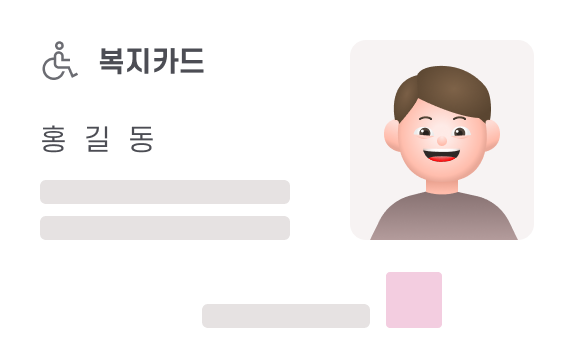
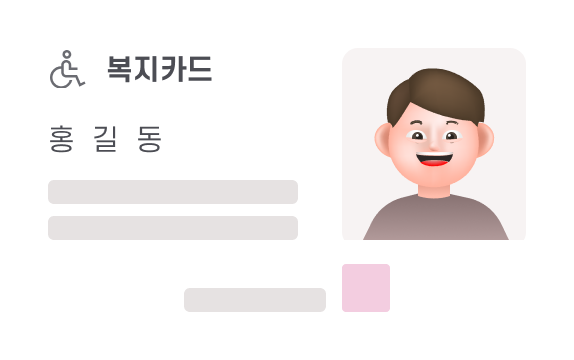
file_attach_box 관련 수정

diff --git a/src/css/common/common.scss b/src/css/common/common.scss
@@ -514,6 +514,18 @@ strong {
 		margin-top: var(--gap-5);
 	}
 
+	&.active {
+		.file_thumbnail {
+			&:before {
+				content: none;
+			}
+
+			&:after {
+				border: var(--border-width-static-regular) solid rgba(0, 0, 0, 0.10);
+			}
+		}
+	}
+
 	.file_thumbnail {
 		overflow: hidden;
 		position: relative;
@@ -521,19 +533,13 @@ strong {
 		align-items: center;
 		justify-content: center;
 		height: 180px;
-		padding: var(--padding-5);
+		// padding: var(--padding-5);
 		background-color: #fff;
 		font-size: 0;
 		line-height: 0;
 		border-radius: var(--radius-medium3);
 
-		// background-image: url("../images/frame/bg_image_frame_tl.svg"), url("../images/frame/bg_image_frame_tr.svg"), url("../images/frame/bg_image_frame_bl.svg"), url("../images/frame/bg_image_frame_br.svg");
-		// background-position: top 14px left 14px, top 14px right 14px, bottom 14px left 14px, bottom 14px right 14px;
-		// background-repeat: no-repeat;
-		// background-size: 16px auto;
-
-
-
+		
 		&:before {
 			content:'';
 			position: absolute;
@@ -542,7 +548,21 @@ strong {
 			z-index: 1;
 			width: 100%;
 			height: 100%;
-			border: var(--border-width-static-regular) solid rgba(0, 0, 0, 0.10);
+			background-image: url("../images/frame/bg_image_frame_tl.svg"), url("../images/frame/bg_image_frame_tr.svg"), url("../images/frame/bg_image_frame_bl.svg"), url("../images/frame/bg_image_frame_br.svg");
+			background-position: top 14px left 14px, top 14px right 14px, bottom 14px left 14px, bottom 14px right 14px;
+			background-repeat: no-repeat;
+			background-size: 16px auto;
+		}
+
+		&:after {
+			content:'';
+			position: absolute;
+			top:0;
+			left: 0;
+			z-index: 1;
+			width: 100%;
+			height: 100%;
+			border: var(--border-width-static-regular) solid var(--color-border-gray-light);
 			border-radius: 16px;
 		}
 

diff --git a/src/html/PR/LTDR/MPRLTDR10002000000.html b/src/html/PR/LTDR/MPRLTDR10002000000.html
@@ -77,10 +77,10 @@
 					<!-- bit_history -->
 					<div class="bit_history">
 						<div class="bit_history_inner">
-							<button type="button" class="selected_case step1 person" title="대상 수정"></button>
-							<button type="button" class="selected_case step2 car" title="용도 수정"></button>
-							<button type="button" class="selected_case step3 birth" title="생년월일 수정"></button>
-							<button type="button" class="selected_case step4 gender" title="성별 수정"></button>
+							<button type="button" class="selected_case step1 person" title="대상 수정">1</button>
+							<button type="button" class="selected_case step2 car" title="용도 수정">1</button>
+							<button type="button" class="selected_case step3 birth" title="생년월일 수정">1</button>
+							<button type="button" class="selected_case step4 gender" title="성별 수정">1</button>
 						</div>
 					</div>
 					<!-- bit_history -->

diff --git a/src/html/PR/GIPC/MPRGIPC30005000000.html b/src/html/PR/GIPC/MPRGIPC30005000000.html
@@ -101,15 +101,15 @@
 									<img src="../../../images/common/img_certify_card_ex.png" alt="복지카드 예시 이미지" />
 							</div>
 					</div>
-					<!-- 등록 후 이미지 (등록 전/후 따라 alt값 변경 필요) --> 
-					<!-- <div class="file_attach_box">
+					<!-- 등록 후 이미지 (등록 전/후 따라 alt값 변경 필요) -->
+					<div class="file_attach_box active">
 							<div class="file_thumbnail">
 									<img src="../../../images/temp/img_certify_card_temp.png" alt="등록된 복지카드 이미지">
 							</div>
 							<button type="button" class="btn_file_delete">
 									<span>등록한 이미지 삭제하기</span>
 							</button>
-					</div> -->
+					</div>
 					<!-- e: 이미지 파일 붙는 영역 -->
 					<ul class="list_ty2">
 						<li>10MB 이하의 jpg, jpeg, gif, png 파일만 등록할 수 있어요</li>

diff --git a/src/html/PR/LTLP/MPRLTLP12006000000.html b/src/html/PR/LTLP/MPRLTLP12006000000.html
@@ -73,14 +73,14 @@
 				</div>
 				
 				<!-- 등록 후 이미지 (등록 전/후 따라 alt값 변경 필요) --> 
-				<!-- <div class="file_attach_box">
+				<div class="file_attach_box active">
 					<div class="file_thumbnail">
 						<img src="../../../images/temp/img_carmera_temp.png" alt="등록된 반려동물 이미지">
 					</div>
 					<button type="button" class="btn_file_delete">
 						<span>등록한 이미지 삭제하기</span>
 					</button>
-				</div> -->
+				</div>
 				<!-- e: 이미지 파일 붙는 영역 -->
 
 				<ul class="list_ty2">
